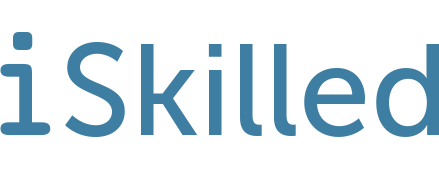
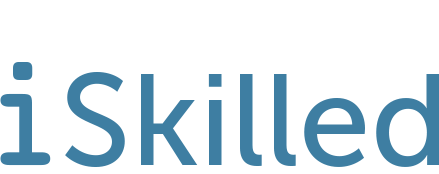
Continued page formatting

diff --git a/src/pages/profile/profile.html b/src/pages/profile/profile.html
@@ -1,15 +1,16 @@
 <ion-header>
   <ion-navbar>
-    <ion-title>
-      I-Skilled
-    </ion-title>
+    <div class="app-header">
+      <div style="width: 30%;"><img src="../../assets/imgs/logo.png"></div>
+      <div style="width: 70%;"><img src="../../assets/imgs/title.png"></div>
+    </div>
   </ion-navbar>
 </ion-header>
 
 <ion-content padding>
   <!-- <h1 style="font-size: 35px; text-align: center;">{{skill.keywords.split(";")[0] | capWord}}</h1> -->
 
-  <div class="profile-holder">
+  <div class="profile-holder hacky-margin">
     <img class="profile-img" src="../../assets/imgs/defaultProfile.jpg">
     <div class="profile-info">
       <div class="profile-name">
@@ -20,6 +21,7 @@
       </div>
       <div class="profile-star">
         <ion-icon *ngFor="let starCount of skill['starRange']" name="star"></ion-icon>
+        <div style="float: right; padding-right: 40%;">{{skill['rating']}}</div>
       </div>
     </div>
 
@@ -29,8 +31,8 @@
   <div class="accordion">
 
 
-    <div class="details-holder" (click)="toggleAccordion(0)" [ngClass]="{'section-active': openHolder == 0, 'section': openHolder != 0}">
-      <div class="profileTitle">
+    <div class="details-holder" [ngClass]="{'section-active': openHolder == 0, 'section': openHolder != 0}">
+      <div (click)="toggleAccordion(0)" class="profileTitle">
         {{skill["name"]}}'s Profile
         <ion-icon *ngIf="openHolder == 0" class="acc-icon" name="arrow-down" color="dark" item-right></ion-icon>
         <ion-icon *ngIf="openHolder == 1" class="acc-icon" name="arrow-forward" color="dark" item-right></ion-icon>
@@ -47,8 +49,8 @@
       </div>
     </div>
 
-    <div class="schedule-holder" (click)="toggleAccordion(1)" [ngClass]="{'section-active': openHolder == 1, 'section': openHolder != 1}">
-      <div class="profileTitle">
+    <div class="schedule-holder" [ngClass]="{'section-active': openHolder == 1, 'section': openHolder != 1}">
+      <div (click)="toggleAccordion(1)" class="profileTitle">
         {{skill["name"]}}'s Schedule
         <ion-icon *ngIf="openHolder == 1" class="acc-icon" name="arrow-down" color="dark"></ion-icon>
         <ion-icon *ngIf="openHolder == 0" class="acc-icon" name="arrow-forward" color="dark"></ion-icon>
@@ -56,9 +58,11 @@
 
       <div *ngIf="openHolder == 1">
         <div>
-          <div *ngFor="let lesson of staticLessons; let i = index" class="lesson-holder">
-            <input class="lessonRadio" type="radio" name="lesson" value="{{i}}">
-            <div class="lessonTime">{{lesson.date + "  " + lesson.time}} </div>
+          <div *ngFor="let lesson of staticLessons; let i = index" class="lesson-holder hacky-margin">
+            <input *ngIf="lessonTime == i" class="lessonRadio" (click)="toggleLessonRadio(i)" type="radio" name="lesson" value="{{i}}" checked>
+            <input *ngIf="lessonTime != i" class="lessonRadio" (click)="toggleLessonRadio(i)" type="radio" name="lesson" value="{{i}}">
+
+            <div class="lessonTime">{{lesson.date}}&emsp;&emsp;{{lesson.time}}</div>
             <div class="lessonPlace">{{lesson.place}} <ion-icon name="pin"></ion-icon></div>
             <div style="clear: both;"></div>
           </div>
@@ -74,9 +78,11 @@
         -->
       </div>
     </div>
-
   </div>
 
-  <button ion-button large item-right [color]="ionicNamedColor" (click)="confirmTrans(skill)"> See Booking Page</button>
+  <div class="book-holder">
+    <div class="book-info"><strong>$20</strong></div>
+    <button ion-button large float-right [color]="ionicNamedColor" (click)="confirmTrans(skill)">Request</button>
+  </div>
 
 </ion-content>

diff --git a/src/pages/transconfirm/transconfirm.html b/src/pages/transconfirm/transconfirm.html
@@ -1,8 +1,9 @@
 <ion-header>
   <ion-navbar>
-    <ion-title>
-      I-Skilled
-    </ion-title>
+    <div class="app-header">
+      <div style="width: 30%;"><img src="../../assets/imgs/logo.png"></div>
+      <div style="width: 70%;"><img src="../../assets/imgs/title.png"></div>
+    </div>
   </ion-navbar>
 </ion-header>
 
@@ -27,7 +28,9 @@
   </div>
 
   <div class="schedule-holder">
-    <div>Appointment overview for {{skill["name"]}}</div>
+    <div style="padding-bottom: 10px; border-bottom: 1px solid grey;">
+      Lesson overview for {{skill["name"]}}
+    </div>
   </div>
 
   <ion-list>
@@ -41,7 +44,7 @@
     <div class="lesson">
       <ion-icon class="lesson-icon" name="clock" item-start></ion-icon>
       <div class="lesson-info">
-        6:00 pm
+        {{lessonInfo.date + "  " + lessonInfo.time}}
       </div>
     </div>
   </ion-list>
@@ -51,7 +54,7 @@
   <ion-toolbar>
     <div class="book-holder">
       <div class="book-info">$20</div>
-      <button disabled=true ion-button large item-right [color]="ionicNamedColor">Book</button>
+      <button disabled=true ion-button large item-right [color]="ionicNamedColor">Confirm</button>
     </div>
   </ion-toolbar>
 </ion-footer>

diff --git a/src/pages/profile/profile.ts b/src/pages/profile/profile.ts
@@ -21,7 +21,8 @@ export class ProfilePage {
               public navParams: NavParams) {
 
     this.skill = this.navParams.get('skill');
-    this.openHolder = 1;
+    this.openHolder = 0;
+    this.lessonTime = 0;
     var placeString = this.skill["name"];
     var placeVar = placeString + "'s Place";
 
@@ -45,8 +46,13 @@ export class ProfilePage {
   // temporary button that takes you to the transConfirm page
   confirmTrans(skill){
     this.navCtrl.push(TransconfirmPage, {
-      skill: skill
+      skill: skill,
+      lessonInfo: this.staticLessons[this.lessonTime],
     });
+  }
+
+  toggleLessonRadio(ind) {
+    this.lessonTime = ind;
   }
 
   toggleAccordion(ind) {

diff --git a/src/pages/profile/profile.scss b/src/pages/profile/profile.scss
@@ -1,5 +1,14 @@
 page-profile {
 
+  @import "../../theme/header";
+
+  .hacky-margin {
+    margin-left: -30%;
+    margin-right: -30%;
+    padding-left: 30%;
+    padding-right: 30%;
+  }
+
   .profile-img {
     float: left;
     width: 30%;
@@ -32,7 +41,8 @@ page-profile {
   }
 
   .profile-holder {
-    padding: 20px 30px;
+    padding-top: 20px;
+    padding-bottom: 20px;
     background-color: #66B8E7;
     border: 3px solid #B7DDF4;
   }
@@ -60,6 +70,7 @@ page-profile {
   .lesson-holder {
     font-size: 18px;
     background-color: #F3F3F3;
+    padding-bottom: 15px;
   }
 
   .lessonRadio,

diff --git a/src/pages/search/search.html b/src/pages/search/search.html
@@ -1,8 +1,8 @@
 <ion-header>
   <ion-navbar>
     <div class="app-header">
-      <div style="width: 30%;"><img src="../../assets/imgs/logo.png"></div>
-      <div style="width: 70%;"><img src="../../assets/imgs/title.png"></div>
+      <div style="margin-left: 10%; width: 30%;"><img src="../../assets/imgs/logo.png"></div>
+      <div style="width: 50%;"><img src="../../assets/imgs/title.png"></div>
     </div>
   </ion-navbar>
 </ion-header>

diff --git a/src/pages/transconfirm/transconfirm.ts b/src/pages/transconfirm/transconfirm.ts
@@ -9,10 +9,12 @@ import { NavController, NavParams } from 'ionic-angular';
 export class TransconfirmPage {
 
   skill:any;
+  lessonInfo:any;
 
   constructor(public navCtrl: NavController, 
               public navParams: NavParams) {
     this.skill = this.navParams.get('skill');
-    console.log(this.skill);
+    this.lessonInfo = this.navParams.get('lessonInfo');
+    console.log(this.lessonInfo);
   }
 }

diff --git a/src/pages/transconfirm/transconfirm.scss b/src/pages/transconfirm/transconfirm.scss
@@ -1,5 +1,7 @@
 page-transconfirm {
 
+  @import "../../theme/header";
+
   .profile-img {
     float: left;
     width: 30%;
@@ -80,7 +82,10 @@ page-transconfirm {
     clear: both;
     display: flex;
     align-items: center;
+    border-bottom: 1px solid grey;
+    padding: 10px 0px;
   }
+
   // split up so can get multiple lines of text like the wireframes they sent earlier
 
 }

diff --git a/src/pages/search/search.scss b/src/pages/search/search.scss
@@ -1,15 +1,6 @@
 page-search {
-
-  .app-header > div {
-    float: left;
-    display: flex;
-    align-items: center;
-    justify-content: center;
-  }
-
-  .app-header div img {
-    height: 50px;
-  }
+  
+  @import "../../theme/header";
 
   .search-results ion-card:nth-child(odd) {
     background-color: #DAEEF9;

diff --git a/src/theme/header.scss b/src/theme/header.scss
@@ -1,0 +1,19 @@
+.app-header > div {
+  float: left;
+  /*display: flex;
+  align-items: center;
+  justify-content: center;*/
+}
+
+.app-header div img {
+  height: 50px;
+}
+
+.app-header > div:last-child {
+  padding-left: 2%;
+}
+
+.app-header > div:first-child {
+  text-align: right;
+  padding-right: 2%;
+}
